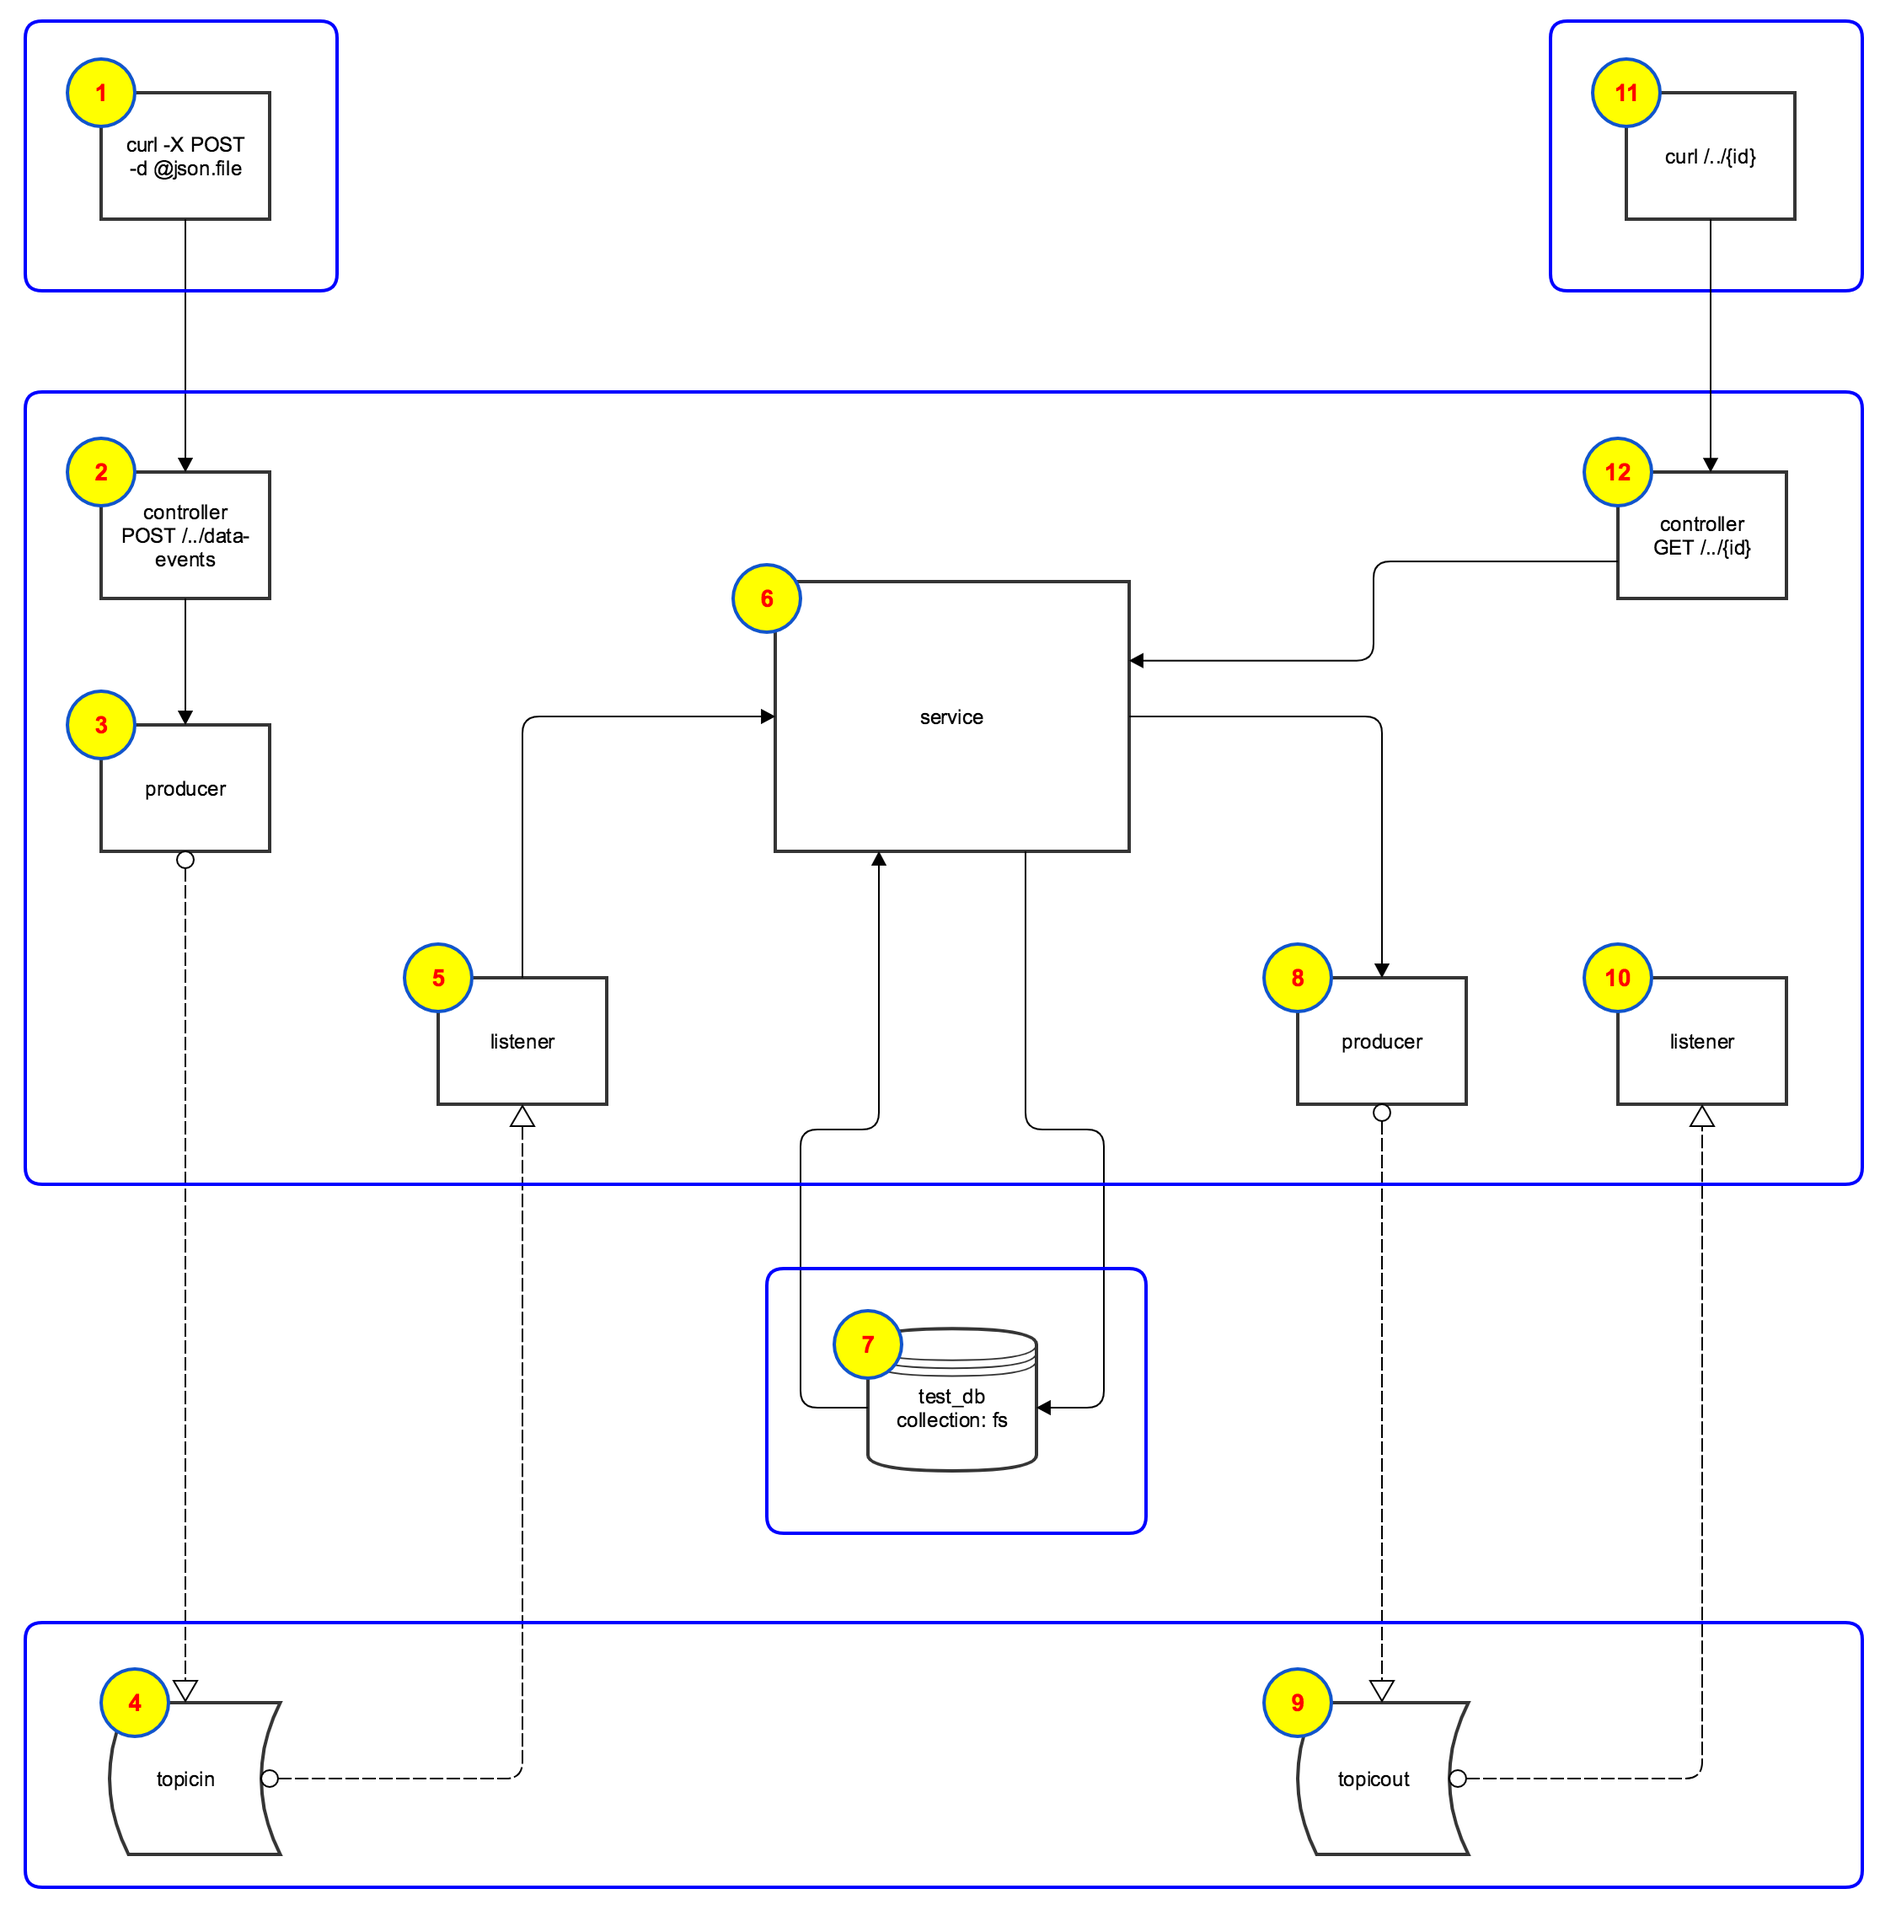
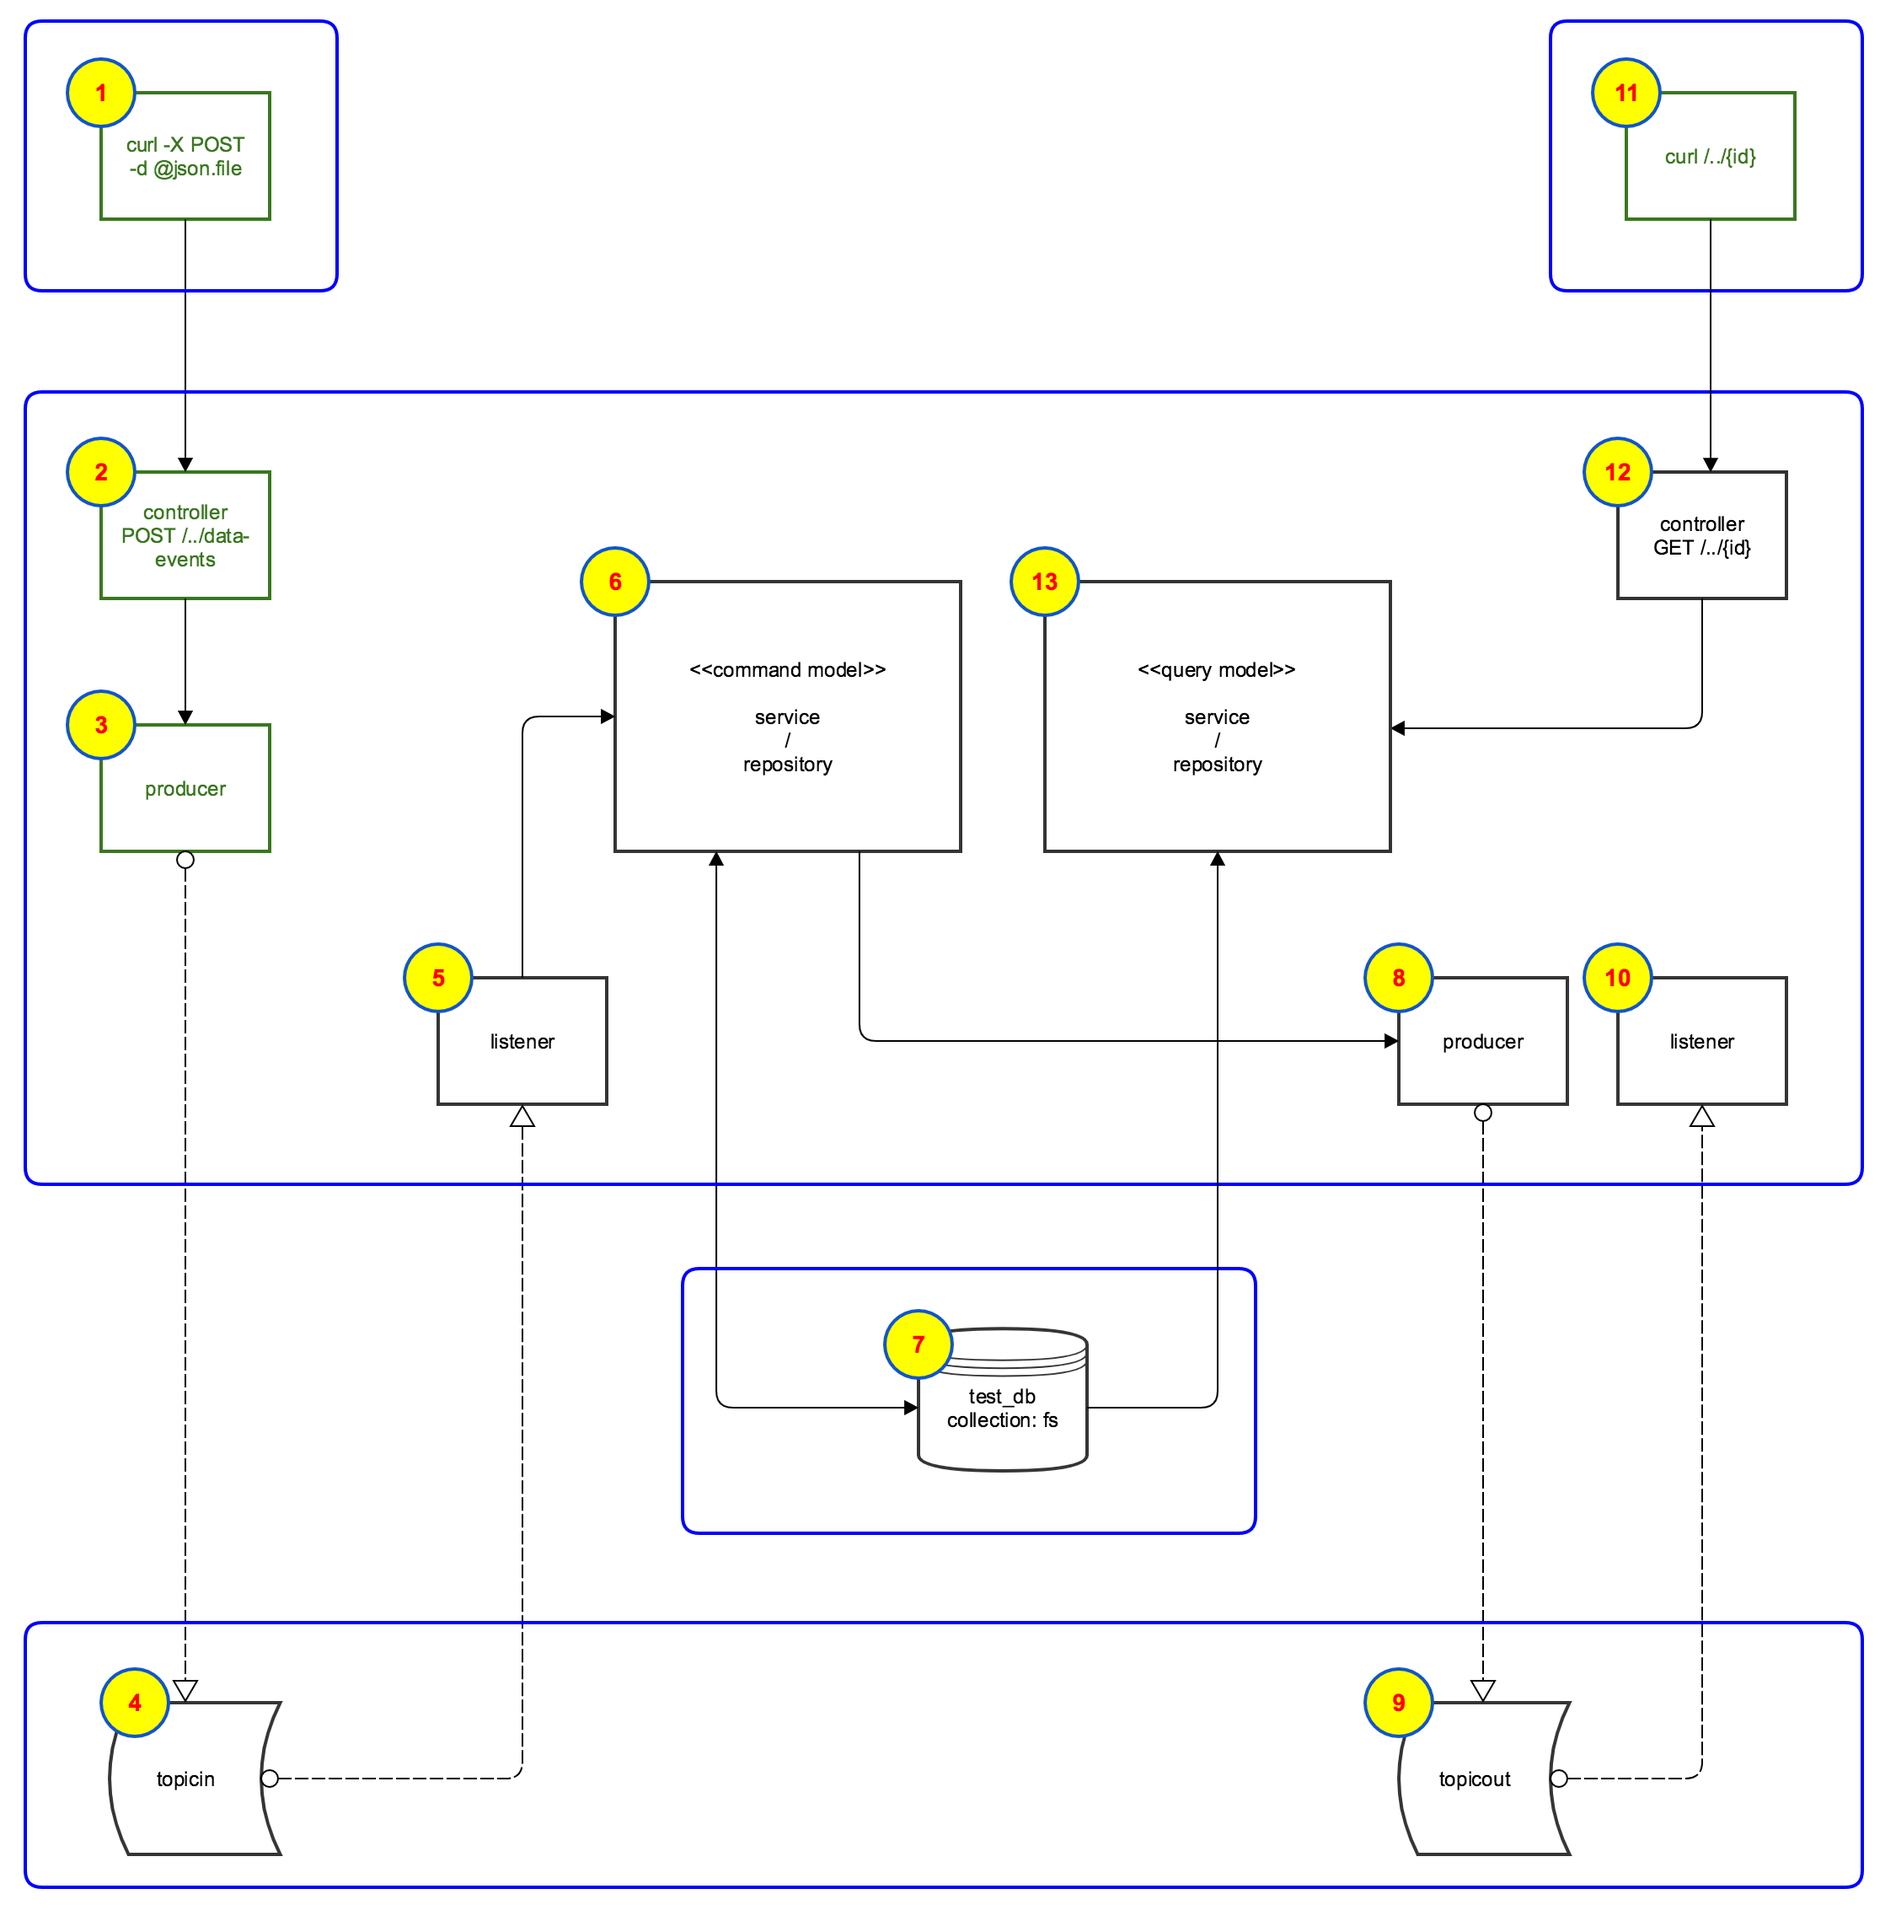
added controller test

diff --git a/src/test/java/com/aron/flightschedule/controller/FlightScheduleControllerTest.java b/src/test/java/com/aron/flightschedule/controller/FlightScheduleControllerTest.java
@@ -1,0 +1,105 @@
+package com.aron.flightschedule.controller;
+
+
+import com.aron.flightschedule.TestConstants;
+import com.aron.flightschedule.config.FlightScheduleConfig;
+import com.aron.flightschedule.service.FlightScheduleService;
+import lombok.extern.slf4j.Slf4j;
+import org.junit.Test;
+import org.junit.runner.RunWith;
+import org.springframework.beans.factory.annotation.Autowired;
+import org.springframework.boot.test.autoconfigure.web.servlet.WebMvcTest;
+import org.springframework.boot.test.mock.mockito.MockBean;
+import org.springframework.context.annotation.Import;
+import org.springframework.http.MediaType;
+import org.springframework.test.context.junit4.SpringRunner;
+import org.springframework.test.web.servlet.MockMvc;
+
+import java.util.Optional;
+
+import static com.aron.flightschedule.TestConstants.*;
+import static org.mockito.ArgumentMatchers.any;
+import static org.mockito.Mockito.when;
+import static org.springframework.test.web.servlet.request.MockMvcRequestBuilders.get;
+import static org.springframework.test.web.servlet.result.MockMvcResultHandlers.print;
+import static org.springframework.test.web.servlet.result.MockMvcResultMatchers.*;
+
+
+@WebMvcTest(FlightScheduleController.class)
+@Import({FlightScheduleConfig.class})
+@Slf4j
+@RunWith(SpringRunner.class)
+public class FlightScheduleControllerTest {
+
+    @Autowired
+    private MockMvc mockMvc;
+
+    @MockBean
+    private FlightScheduleService flightScheduleService;
+
+    @Test
+    public void shouldLoadContext() {
+    }
+
+    @Test
+    public void shouldReturn_notFound_getFlightSchedule_WhenInvalidRequest() throws Exception {
+
+        Long flightScheduleId = 1L;
+        String requestUrl = createGetFlightScheduleUrl(flightScheduleId);
+        log.debug("requestUrl={}", requestUrl);
+
+        when(flightScheduleService.getFlightSchedule(any(Long.class))).thenReturn(Optional.empty());
+
+        this.mockMvc.perform(get(requestUrl))
+                .andDo(print())
+                .andExpect(content().contentType(MediaType.APPLICATION_JSON_UTF8))
+                .andExpect(jsonPath("@.timestamp").exists())
+                .andExpect(jsonPath("@.status").value(404))
+                .andExpect(jsonPath("@.exceptionMessage").value("supplied id not found"))
+                .andExpect(jsonPath("@.exceptionClass").isString())
+                .andExpect(jsonPath("$.path").isNotEmpty())
+                .andExpect(status().isNotFound());
+    }
+
+    @Test
+    public void shouldReturn_ok_getFlightSchedule_WhenValidRequest() throws Exception {
+
+        Long flightScheduleId = 12345678L;
+        String requestUrl = createGetFlightScheduleUrl(flightScheduleId);
+        log.debug("requestUrl={}", requestUrl);
+
+        when(flightScheduleService.getFlightSchedule(any(Long.class))).thenReturn(TestConstants.FLIGHT_SCHEDULE());
+
+        this.mockMvc.perform(get(requestUrl))
+                .andDo(print())
+                .andExpect(content().contentType(MediaType.APPLICATION_JSON_UTF8))
+                .andExpect(jsonPath("@.id").value(TEST_FLIGHT_SCHEDULE_ID))
+                .andExpect(jsonPath("@.flightNumber").value(TEST_FLIGHT_SCHEDULE_FLIGHT_NUMBER))
+                .andExpect(jsonPath("@.departureDate").value(TEST_FLIGHT_SCHEDULE_DEPARTURE_DATE.format(LOCAL_DATE_JSON_FORMATTER)))
+                .andExpect(jsonPath("@.scheduledDepartureTime").value(TEST_FLIGHT_SCHEDULE_SCHEDULED_DEPARTURE_TIME.format(LOCAL_DATE_TIME_JSON_FORMATTER)))
+                .andExpect(jsonPath("@.estimatedDepartureTime").value(TEST_FLIGHT_SCHEDULE_ESTIMATED_DEPARTURE_TIME.format(LOCAL_DATE_TIME_JSON_FORMATTER)))
+                .andExpect(jsonPath("@.originPort").value(TEST_FLIGHT_SCHEDULE_ORIGIN_PORT))
+                .andExpect(jsonPath("@.originCountry").value(TEST_FLIGHT_SCHEDULE_ORIGIN_COUNTRY))
+                .andExpect(jsonPath("@.destinationPort").value(TEST_FLIGHT_SCHEDULE_DESTINATION_PORT))
+                .andExpect(jsonPath("@.destinationCountry").value(TEST_FLIGHT_SCHEDULE_DESTINATION_COUNTRY))
+                .andExpect(jsonPath("@.airline").value(TEST_FLIGHT_SCHEDULE_AIRLINE))
+                .andExpect(jsonPath("@.status").value(TEST_FLIGHT_SCHEDULE_STATUS.name()))
+                .andExpect(status().isOk());
+    }
+
+
+//    // parties
+//
+//    @Test
+//    public void shouldReturn_unauthorized_ForParties_WhenNoCredentialsSupplied() throws Exception {
+//
+//        String requestUrl = createPartiesUrl();
+//
+//        this.mockMvc.perform(get(requestUrl))
+//                .andDo(print())
+//                .andExpect(content().contentType(MediaType.APPLICATION_JSON_UTF8))
+//                .andExpect(content().string(UNAUTHORISED_RESPONSE_BODY))
+//                .andExpect(status().isUnauthorized());
+//    }
+
+}

diff --git a/src/test/java/com/aron/flightschedule/TestConstants.java b/src/test/java/com/aron/flightschedule/TestConstants.java
@@ -1,0 +1,51 @@
+package com.aron.flightschedule;
+
+import com.aron.flightschedule.model.FlightSchedule;
+
+import java.time.LocalDate;
+import java.time.LocalDateTime;
+import java.time.format.DateTimeFormatter;
+import java.util.Optional;
+
+import static com.aron.flightschedule.model.FlightSchedule.FlightScheduleStatus.SCHEDULED;
+
+public class TestConstants {
+
+    public static DateTimeFormatter LOCAL_DATE_JSON_FORMATTER = DateTimeFormatter.ofPattern("yyyy-MM-dd");
+    public static DateTimeFormatter LOCAL_DATE_TIME_JSON_FORMATTER = DateTimeFormatter.ofPattern("yyyy-MM-dd'T'HH:mm:ss");
+
+    public static final long TEST_FLIGHT_SCHEDULE_ID = 12345678L;
+    public static final String TEST_FLIGHT_SCHEDULE_FLIGHT_NUMBER = "QF425";
+    public static final LocalDate TEST_FLIGHT_SCHEDULE_DEPARTURE_DATE = LocalDate.of(2019, 10, 16);
+    public static final LocalDateTime TEST_FLIGHT_SCHEDULE_SCHEDULED_DEPARTURE_TIME = LocalDateTime.of(2019, 10, 16, 6, 10, 39);
+    public static final LocalDateTime TEST_FLIGHT_SCHEDULE_ESTIMATED_DEPARTURE_TIME = LocalDateTime.of(2019, 10, 16, 6, 31, 00);
+    public static final String TEST_FLIGHT_SCHEDULE_ORIGIN_PORT = "Sydney";
+    public static final String TEST_FLIGHT_SCHEDULE_ORIGIN_COUNTRY = "Australia";
+    public static final String TEST_FLIGHT_SCHEDULE_DESTINATION_PORT = "Melbourne";
+    public static final String TEST_FLIGHT_SCHEDULE_DESTINATION_COUNTRY = "Australia";
+    public static final String TEST_FLIGHT_SCHEDULE_AIRLINE = "QF";
+    public static final FlightSchedule.FlightScheduleStatus TEST_FLIGHT_SCHEDULE_STATUS = SCHEDULED;
+
+    public static final String URL_FLIGHT_SCHEDULE_GET = "/flightschedules/{id}";
+
+    public static String createGetFlightScheduleUrl(Long flightScheduleId) {
+        String url = URL_FLIGHT_SCHEDULE_GET.replace("{id}", flightScheduleId.toString());
+        return url;
+    }
+
+    public static Optional<FlightSchedule> FLIGHT_SCHEDULE() {
+        return Optional.of(FlightSchedule.builder()
+                .id(TEST_FLIGHT_SCHEDULE_ID)
+                .flightNumber(TEST_FLIGHT_SCHEDULE_FLIGHT_NUMBER)
+                .departureDate(TEST_FLIGHT_SCHEDULE_DEPARTURE_DATE)
+                .scheduledDepartureTime(TEST_FLIGHT_SCHEDULE_SCHEDULED_DEPARTURE_TIME)
+                .estimatedDepartureTime(TEST_FLIGHT_SCHEDULE_ESTIMATED_DEPARTURE_TIME)
+                .originPort(TEST_FLIGHT_SCHEDULE_ORIGIN_PORT)
+                .originCountry(TEST_FLIGHT_SCHEDULE_ORIGIN_COUNTRY)
+                .destinationPort(TEST_FLIGHT_SCHEDULE_DESTINATION_PORT)
+                .destinationCountry(TEST_FLIGHT_SCHEDULE_DESTINATION_COUNTRY)
+                .airline(TEST_FLIGHT_SCHEDULE_AIRLINE)
+                .status(TEST_FLIGHT_SCHEDULE_STATUS)
+                .build());
+    }
+}

diff --git a/README-SOLUTION.md b/README-SOLUTION.md
@@ -77,7 +77,7 @@ Finally, the actual work could start after the github repository was created and
     - 3. to aid in testing, the [producer](src/main/java/com/aron/flightschedule/service/DataEventProducer.java) sends the message to the 'topicin' topic
     - 4. the 'topicin' topic is where the stream of ODS data changes can be consumed from, normally this would be populated by capturing the database changes in ODS
     - 5. a stream [listener](src/main/java/com/aron/flightschedule/service/FlightScheduleDataEventListener.java) for data changes
-    - 6. a [service](src/main/java/com/aron/flightschedule/service/FlightScheduleService.java) to lookup existing and store new flight schedule as well as calculate the new status of the flight schedule
+    - 6. the command is handled by the [service](src/main/java/com/aron/flightschedule/service/FlightScheduleService.java) to lookup existing and store new flight schedule as well as calculate the new status of the flight schedule
     - 7. the flight schedule (fs) document collection storage
     - 8. a [producer](src/main/java/com/aron/flightschedule/service/BusinessEventProducer.java) of business events, currently on flight delayed is supported, sending to the 'topicout' topic
     - 9. the 'topicout' topic is where the flight schedule business events can be consumed from
